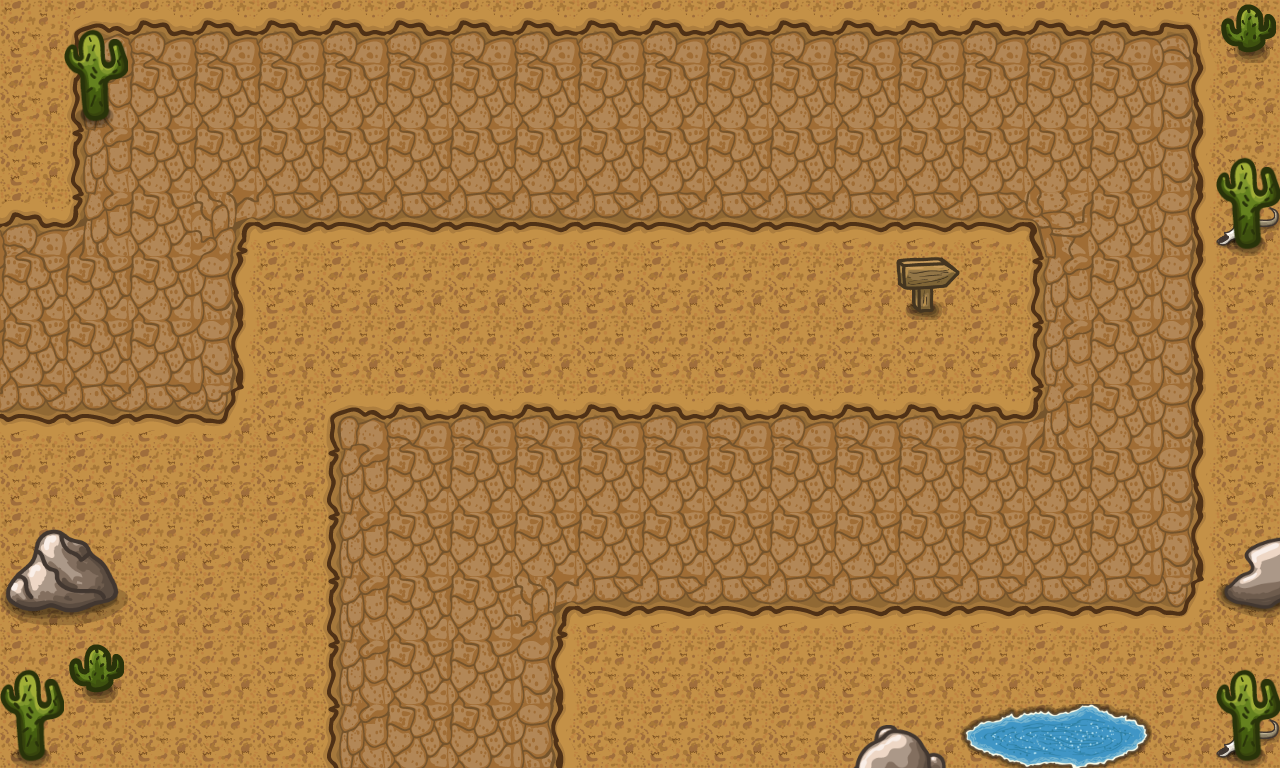
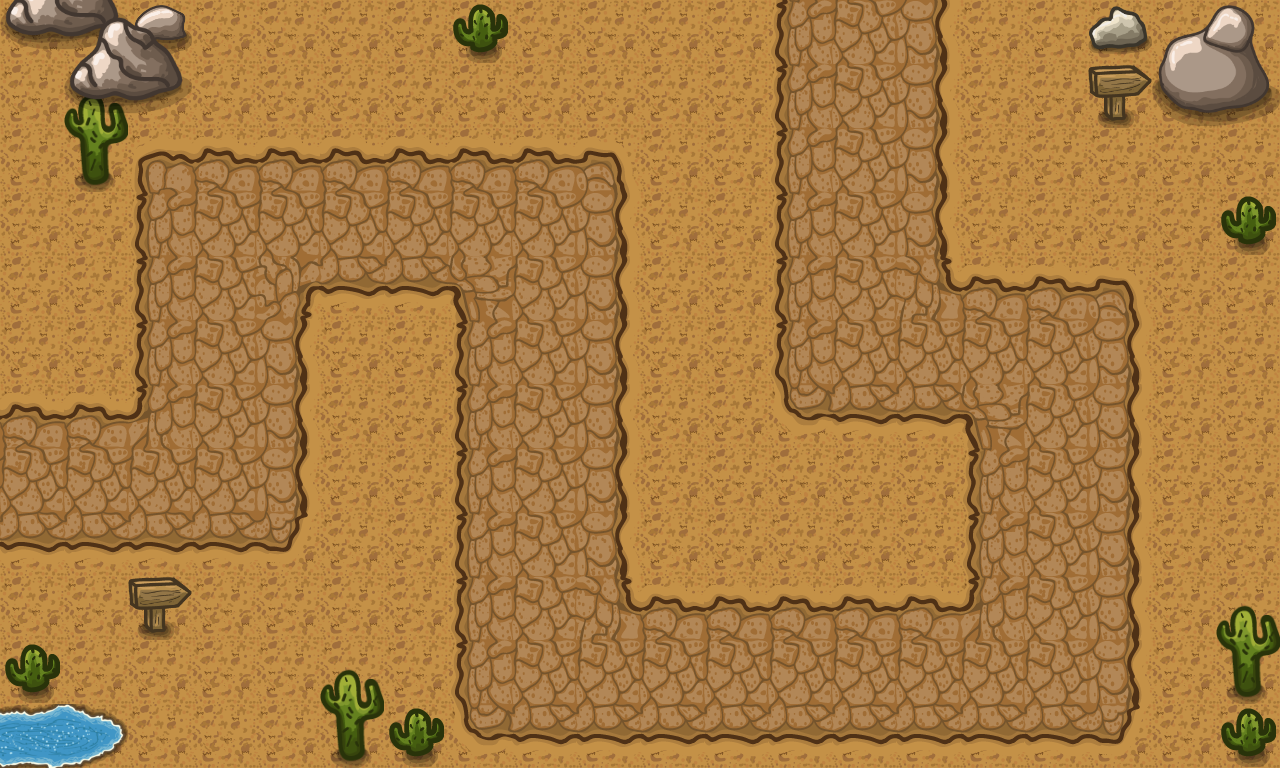
Changes to js and img

diff --git a/script.js b/script.js
@@ -5,3 +5,9 @@ const canvas = document.querySelector('canvas')
 	canvas.height = 768
 	c.fillStyle = 'white'
 	c.fillRect(0, 0, canvas.width, canvas.height,)
+    const image = new Image()
+    
+    image.onload = () => {
+        c.drawImage(image, 0, 0)
+    }
+image.src = 'media/map.png'
